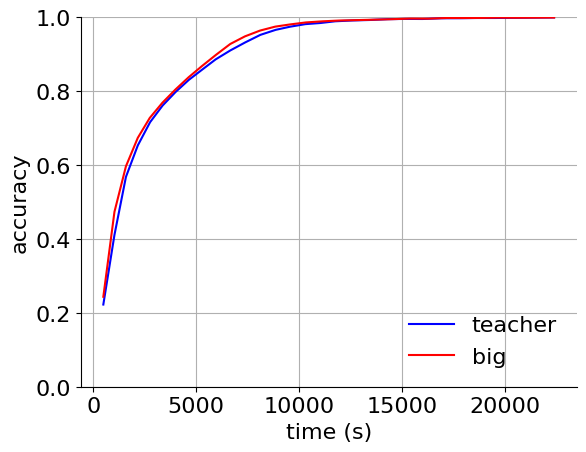
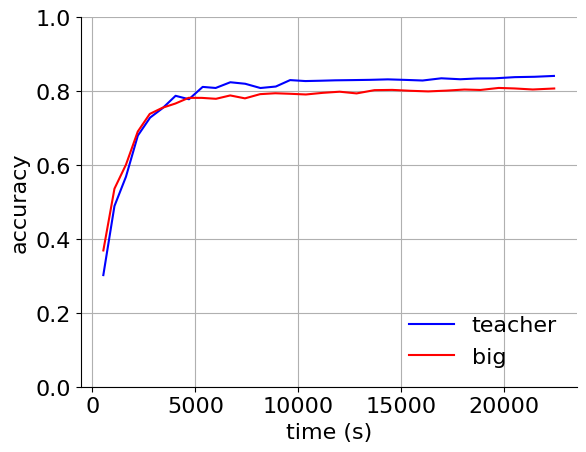
add config3 to run on another c240g5

Changed region(s): [[0.215, 0.031, 0.9522, 0.9292], [0.1536, 0.0619, 0.215, 0.9292], [0.7986, 0.7434, 0.9215, 0.9292]]

diff --git a/src/plot.py b/src/plot.py
@@ -83,9 +83,9 @@ def breakdown_into_lists(results_folder):
     train_batch_times = list()
     train_batch_accs = list()
     for entry in data:
-        if "batch" in entry:
-            train_batch_times.append(entry["time"])
-            train_batch_accs.append(entry["train_acc"])
+        # if "batch" in entry:
+        #     train_batch_times.append(entry["time"])
+        #     train_batch_accs.append(entry["train_acc"])
         if "epoch" in entry:
             if "train_acc" in entry:
                 train_epoch_times.append(entry["time"])
@@ -95,9 +95,9 @@ def breakdown_into_lists(results_folder):
                 test_epoch_accs.append(entry["test_acc"])
     windowsize = 100
     train_batch_times = train_batch_times[windowsize - 1 :]
-    train_batch_accs = np.convolve(
-        train_batch_accs, np.ones(windowsize) * (1 / windowsize), "valid"
-    )
+    # train_batch_accs = np.convolve(
+    #     train_batch_accs, np.ones(windowsize) * (1 / windowsize), "valid"
+    # )
     return {
         "train_epoch_times": train_epoch_times,
         "train_epoch_accs": train_epoch_accs,

diff --git a/plotting/plot4.py b/plotting/plot4.py
@@ -26,15 +26,15 @@ def plot6():
     # )
     _, ax = plt.subplots()
     ax.plot(
-        teacher_metrics["train_epoch_times"],
-        teacher_metrics["train_epoch_accs"],
+        teacher_metrics["test_epoch_times"],
+        teacher_metrics["test_epoch_accs"],
         color="blue",
         linestyle="-",
         label="teacher",
     )
     ax.plot(
-        big_metrics["train_epoch_times"],
-        big_metrics["train_epoch_accs"],
+        big_metrics["test_epoch_times"],
+        big_metrics["test_epoch_accs"],
         color="red",
         linestyle="-",
         label="big",
